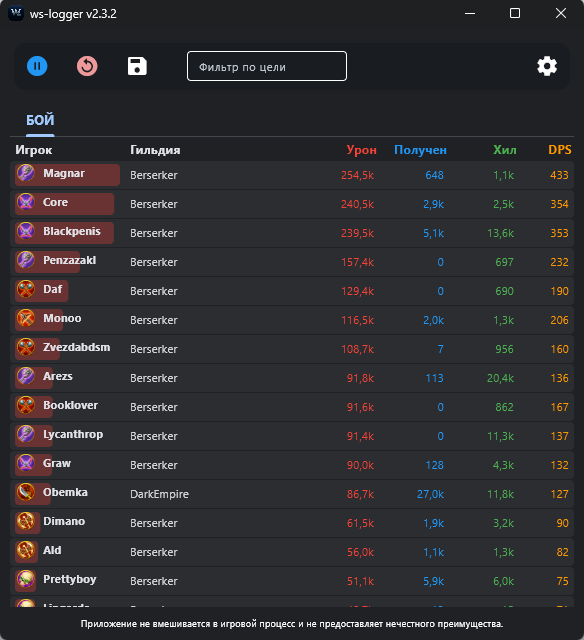
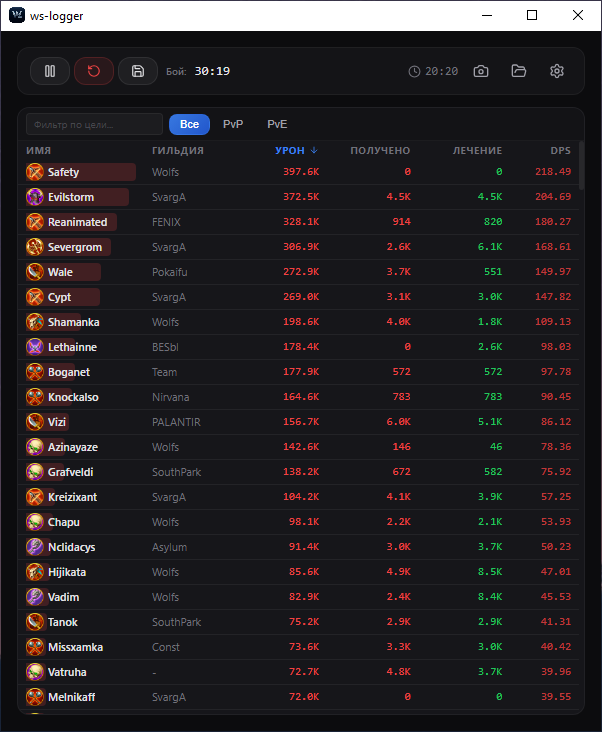
2.4.0 release

diff --git a/Readme.md b/Readme.md
@@ -8,19 +8,18 @@
 
 ## Возможности
 - Отслеживание статистики урона и исцеления в реальном времени.
-- Детальные метрики по нанесенному урону, полученному урону, исцелению, полученному исцелению и самоисцелению.
+- Детальные метрики по нанесенному урону, полученному урону, исцелению.
 - Корректное присвоение урона и исцеления от питомцев их владельцам.
 - Возможность сортировки данных по любому столбцу.
-- Фильтрация статистики по конкретной цели.
+- Фильтрация по конкретной цели, PvP, PvE статистика.
 - Клик по игроку для просмотра детальной статистики его урона по целям.
 - Экспорт результатов в виде таблицы Excel или SQLite (.db).
-- Автоматическое определение входа в рейд и автоматический экспорт статистики (включается в настройках).
 - Управление настройками сервера, сетевого интерфейса и версии клиента внутри приложения.
 
 ## Требования
 - **ОС**: Windows 10/11 (x64)
 - **Драйвер Npcap**: Необходим для захвата сетевого трафика.
-- **Версия игры**: Warspear Online 13.3.x (поддерживаются как Обычная, так и Steam версии).
+- **Версия игры**: Warspear Online 13.4.3 (поддерживаются как Обычная, так и Steam версии).
 - **Права администратора**: Требуются для доступа к сетевым интерфейсам.
 
 ## Установка
@@ -33,11 +32,11 @@
 
 ## Использование
 1. Запустите игру и войдите в своего персонажа.
-2. Запустите `ws-logger.exe` от имени администратора.
+2. Запустите и установите `ws-logger.exe` от имени администратора.
 3. В **Настройках** выберите правильный сетевой интерфейс и игровой сервер.
 4. Там же выберите предпочтительный формат экспорта (Excel или SQLite).
 5. Нажмите кнопку **"Начать"** для запуска сбора статистики.
-6. Приложение автоматически начнет отслеживать события. По завершении боя или рейда используйте кнопку **"Стоп"** или дождитесь автоматического сохранения (для рейдов).
+6. Приложение автоматически начнет отслеживать события. По завершении боя или рейда используйте кнопку **"Стоп"**.
 
 <p align="center">
   <img  src="img/screenshot.png"/>
@@ -54,7 +53,6 @@
 - **Игровой сервер:** Выберите игровой сервер, на котором вы играете.
 - **Игровой клиент:** Укажите версию игрового клиента, которую вы используете (`Обычная` или `Steam`).
 - **Формат экспорта:** Выберите формат сохранения таблицы статистики (`Excel` или `SQLite`).
-- **Автозапись рейдов** Включите или выключите автоматическое обнаружение и запись статистики рейдов.
 
 ## Решение проблем
 1.  **Программа не видит никаких событий:**
